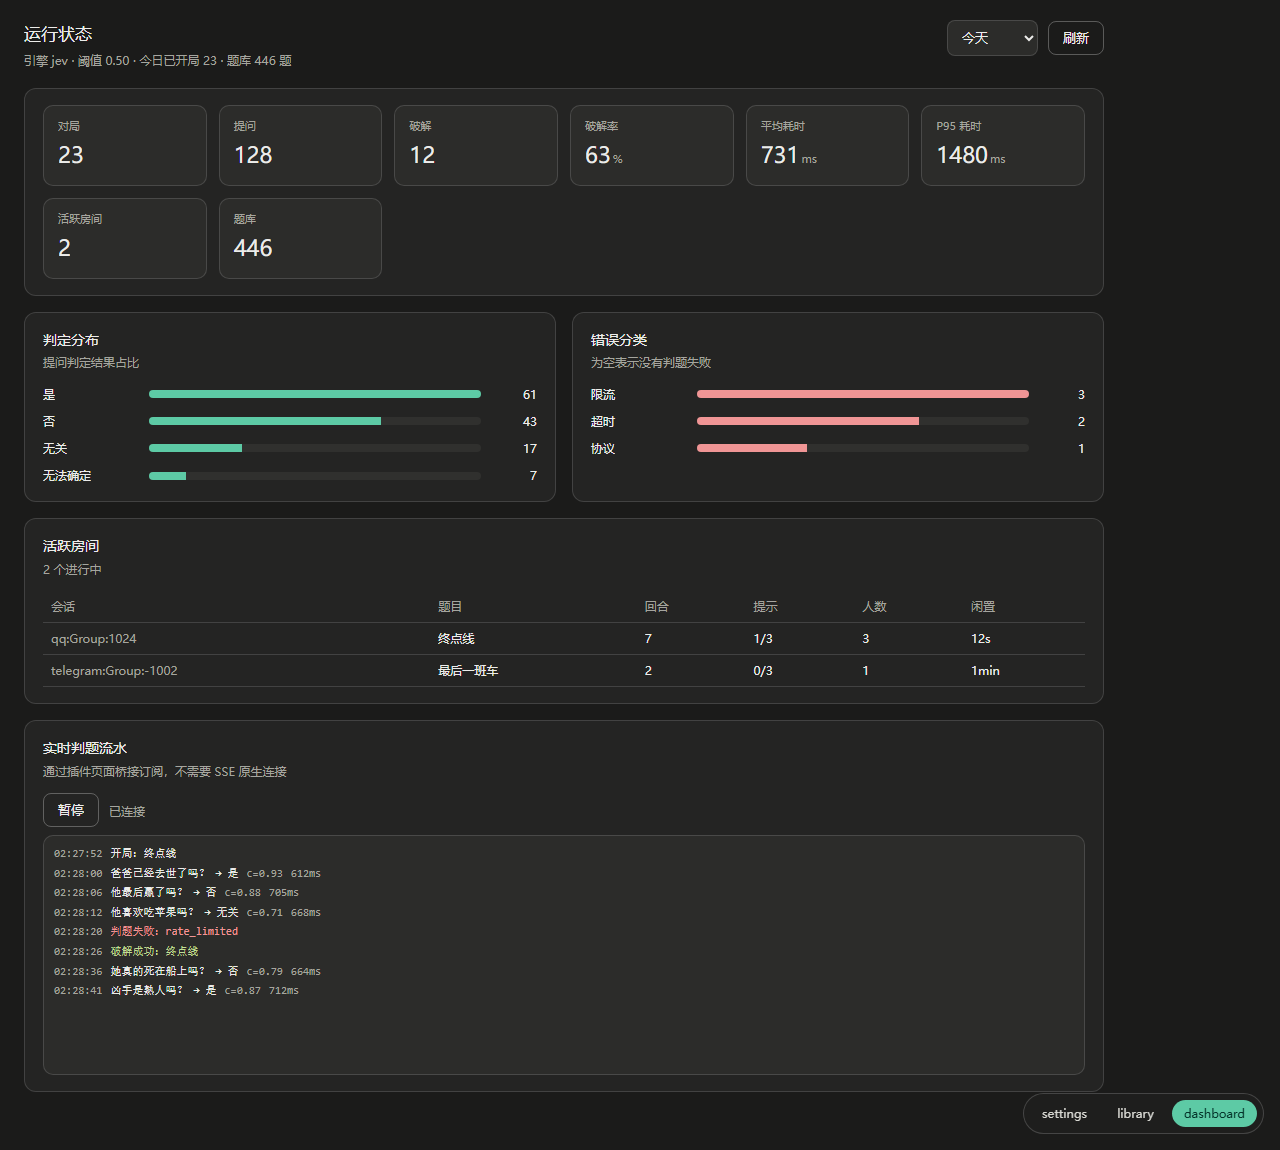
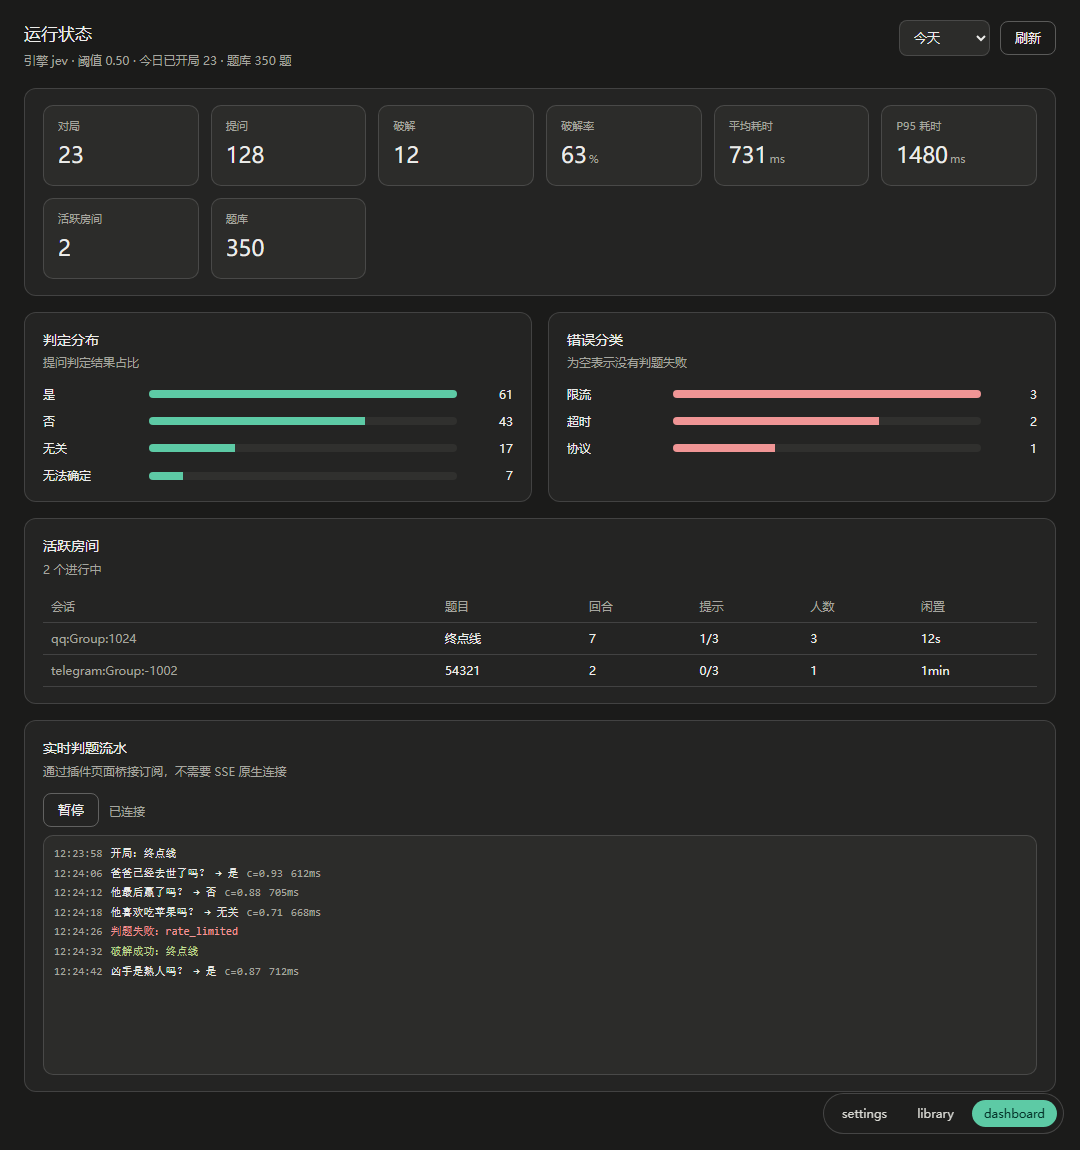
去掉旧版第三方中转地址并重拍面板截图
迁移逻辑只保留模型名 jev-1.13 → jev-1.13.0，不再识别那个已经弃用的中转地址。
截图按 0.2.0 的界面重拍：设置页包含代理与未玩过优先开关，题库页 350 题。

diff --git a/dev/preview/mock.js b/dev/preview/mock.js
@@ -65,7 +65,7 @@ const rooms = [
     updated_at: Math.floor(Date.now() / 1000) - 12, idle_seconds: 12,
   },
   {
-    umo: "telegram:Group:-1002", room_id: "default", puzzle_id: "real-finish-line", title: "最后一班车",
+    umo: "telegram:Group:-1002", room_id: "default", puzzle_id: "real-five-seconds", title: "54321",
     state: "playing", rounds: 2, hints_used: 0, hint_total: 3, participants: 1,
     owner_id: "20002", started_at: Math.floor(Date.now() / 1000) - 180,
     updated_at: Math.floor(Date.now() / 1000) - 95, idle_seconds: 95,
@@ -95,10 +95,10 @@ const bridge = {
         meta: {
           plugin_name: "astrbot_plugin_situation_puzzle",
           puzzle_total: library.length,
-          difficulty: { easy: 120, medium: 210, hard: 116 },
+          difficulty: { easy: 130, medium: 194, hard: 26 },
           providers,
           default_provider: "deepseek-v3",
-          seed_version: "2026-10-19",
+          seed_version: "2026-10-19.1",
           engine: values.judge.engine,
         },
       };

diff --git a/tests/test_schema.py b/tests/test_schema.py
@@ -67,22 +67,20 @@ def test_enum_options_cover_defaults():
             assert definition["default"] in definition["options"], path
 
 
-def test_legacy_jev_defaults_are_migrated():
-    """旧版本写在配置里的第三方代理地址与模型名，加载时归位到官方默认。"""
+def test_legacy_model_name_is_migrated():
+    """旧版本的模型名加载时归位到新默认值，自定义地址与模型不动。"""
     from astrbot_plugin_situation_puzzle.core.config import PluginConfig
 
-    legacy = PluginConfig(
-        {
-            "judge": {
-                "jev_base_url": "https://ai-proxy.xiaobaozi.cn/opencode.ai/zen/v1/systemone",
-                "jev_model": "jev-1.13",
-            }
-        }
-    )
-    assert legacy.get("judge.jev_base_url") == DEFAULTS["judge"]["jev_base_url"]
+    legacy = PluginConfig({"judge": {"jev_model": "jev-1.13"}})
     assert legacy.get("judge.jev_model") == DEFAULTS["judge"]["jev_model"]
 
     custom = PluginConfig(
-        {"judge": {"jev_base_url": "https://my-proxy.example/v1/systemone"}}
+        {
+            "judge": {
+                "jev_base_url": "https://my-proxy.example/v1/systemone",
+                "jev_model": "d1-ultra",
+            }
+        }
     )
     assert custom.get("judge.jev_base_url") == "https://my-proxy.example/v1/systemone"
+    assert custom.get("judge.jev_model") == "d1-ultra"

diff --git a/core/config.py b/core/config.py
@@ -70,10 +70,7 @@ DEFAULTS: dict[str, Any] = {
     },
 }
 
-# 旧版本内置的第三方代理地址与模型名：升级后按原值精确匹配换回官方默认
-LEGACY_JEV_BASE_URLS = {
-    "https://ai-proxy.xiaobaozi.cn/opencode.ai/zen/v1/systemone",
-}
+# 旧版本用过的模型名：升级后按原值精确匹配换回新默认值
 LEGACY_JEV_MODELS = {"jev-1.13": "jev-1.13.0"}
 
 # 字段约束：取值枚举、数值区间
@@ -176,13 +173,11 @@ class PluginConfig:
         self._migrate_judge_defaults()
 
     def _migrate_judge_defaults(self) -> None:
-        """把旧版本留下的代理地址与模型名归位到官方默认值。
+        """把旧版本留下的模型名归位到新默认值。
 
-        只做精确匹配，玩家自己填的地址不会被覆盖。
+        只做精确匹配，玩家自己填的不会被覆盖。
         """
         judge = self.raw.setdefault("judge", {})
-        if str(judge.get("jev_base_url") or "") in LEGACY_JEV_BASE_URLS:
-            judge["jev_base_url"] = DEFAULTS["judge"]["jev_base_url"]
         model = str(judge.get("jev_model") or "")
         if model in LEGACY_JEV_MODELS:
             judge["jev_model"] = LEGACY_JEV_MODELS[model]

diff --git a/CHANGELOG.md b/CHANGELOG.md
@@ -19,8 +19,8 @@
 ### 变更
 
 - jev 引擎默认接口改为官方地址 `https://api.typesafe.ai/v1/systemone`，
-  默认模型改为 `jev-1.13.0`。旧版本写入的第三方代理地址与 `jev-1.13`
-  在加载时按精确匹配归位，自己改过的地址不受影响。
+  默认模型改为 `jev-1.13.0`。旧版本写入的模型名 `jev-1.13` 在加载时自动换成 `jev-1.13.0`，
+  自己填的地址与模型不受影响。旧版内置的第三方中转地址已从代码中移除，不再做地址迁移。
 - 开局选题不再纯随机：按会话（群 / 私聊分别统计）优先没开过的题，避免刚玩过的题马上被抽到。
 - 文字写法改由消息 handler 直接执行，不再依赖框架的唤醒前缀；两种写法都可用时也不会互相吞消息。
 - 帮助文案与开局提示里的指令示例改为按当前映射生成；开局模板新增 `{cmd}` 变量。
